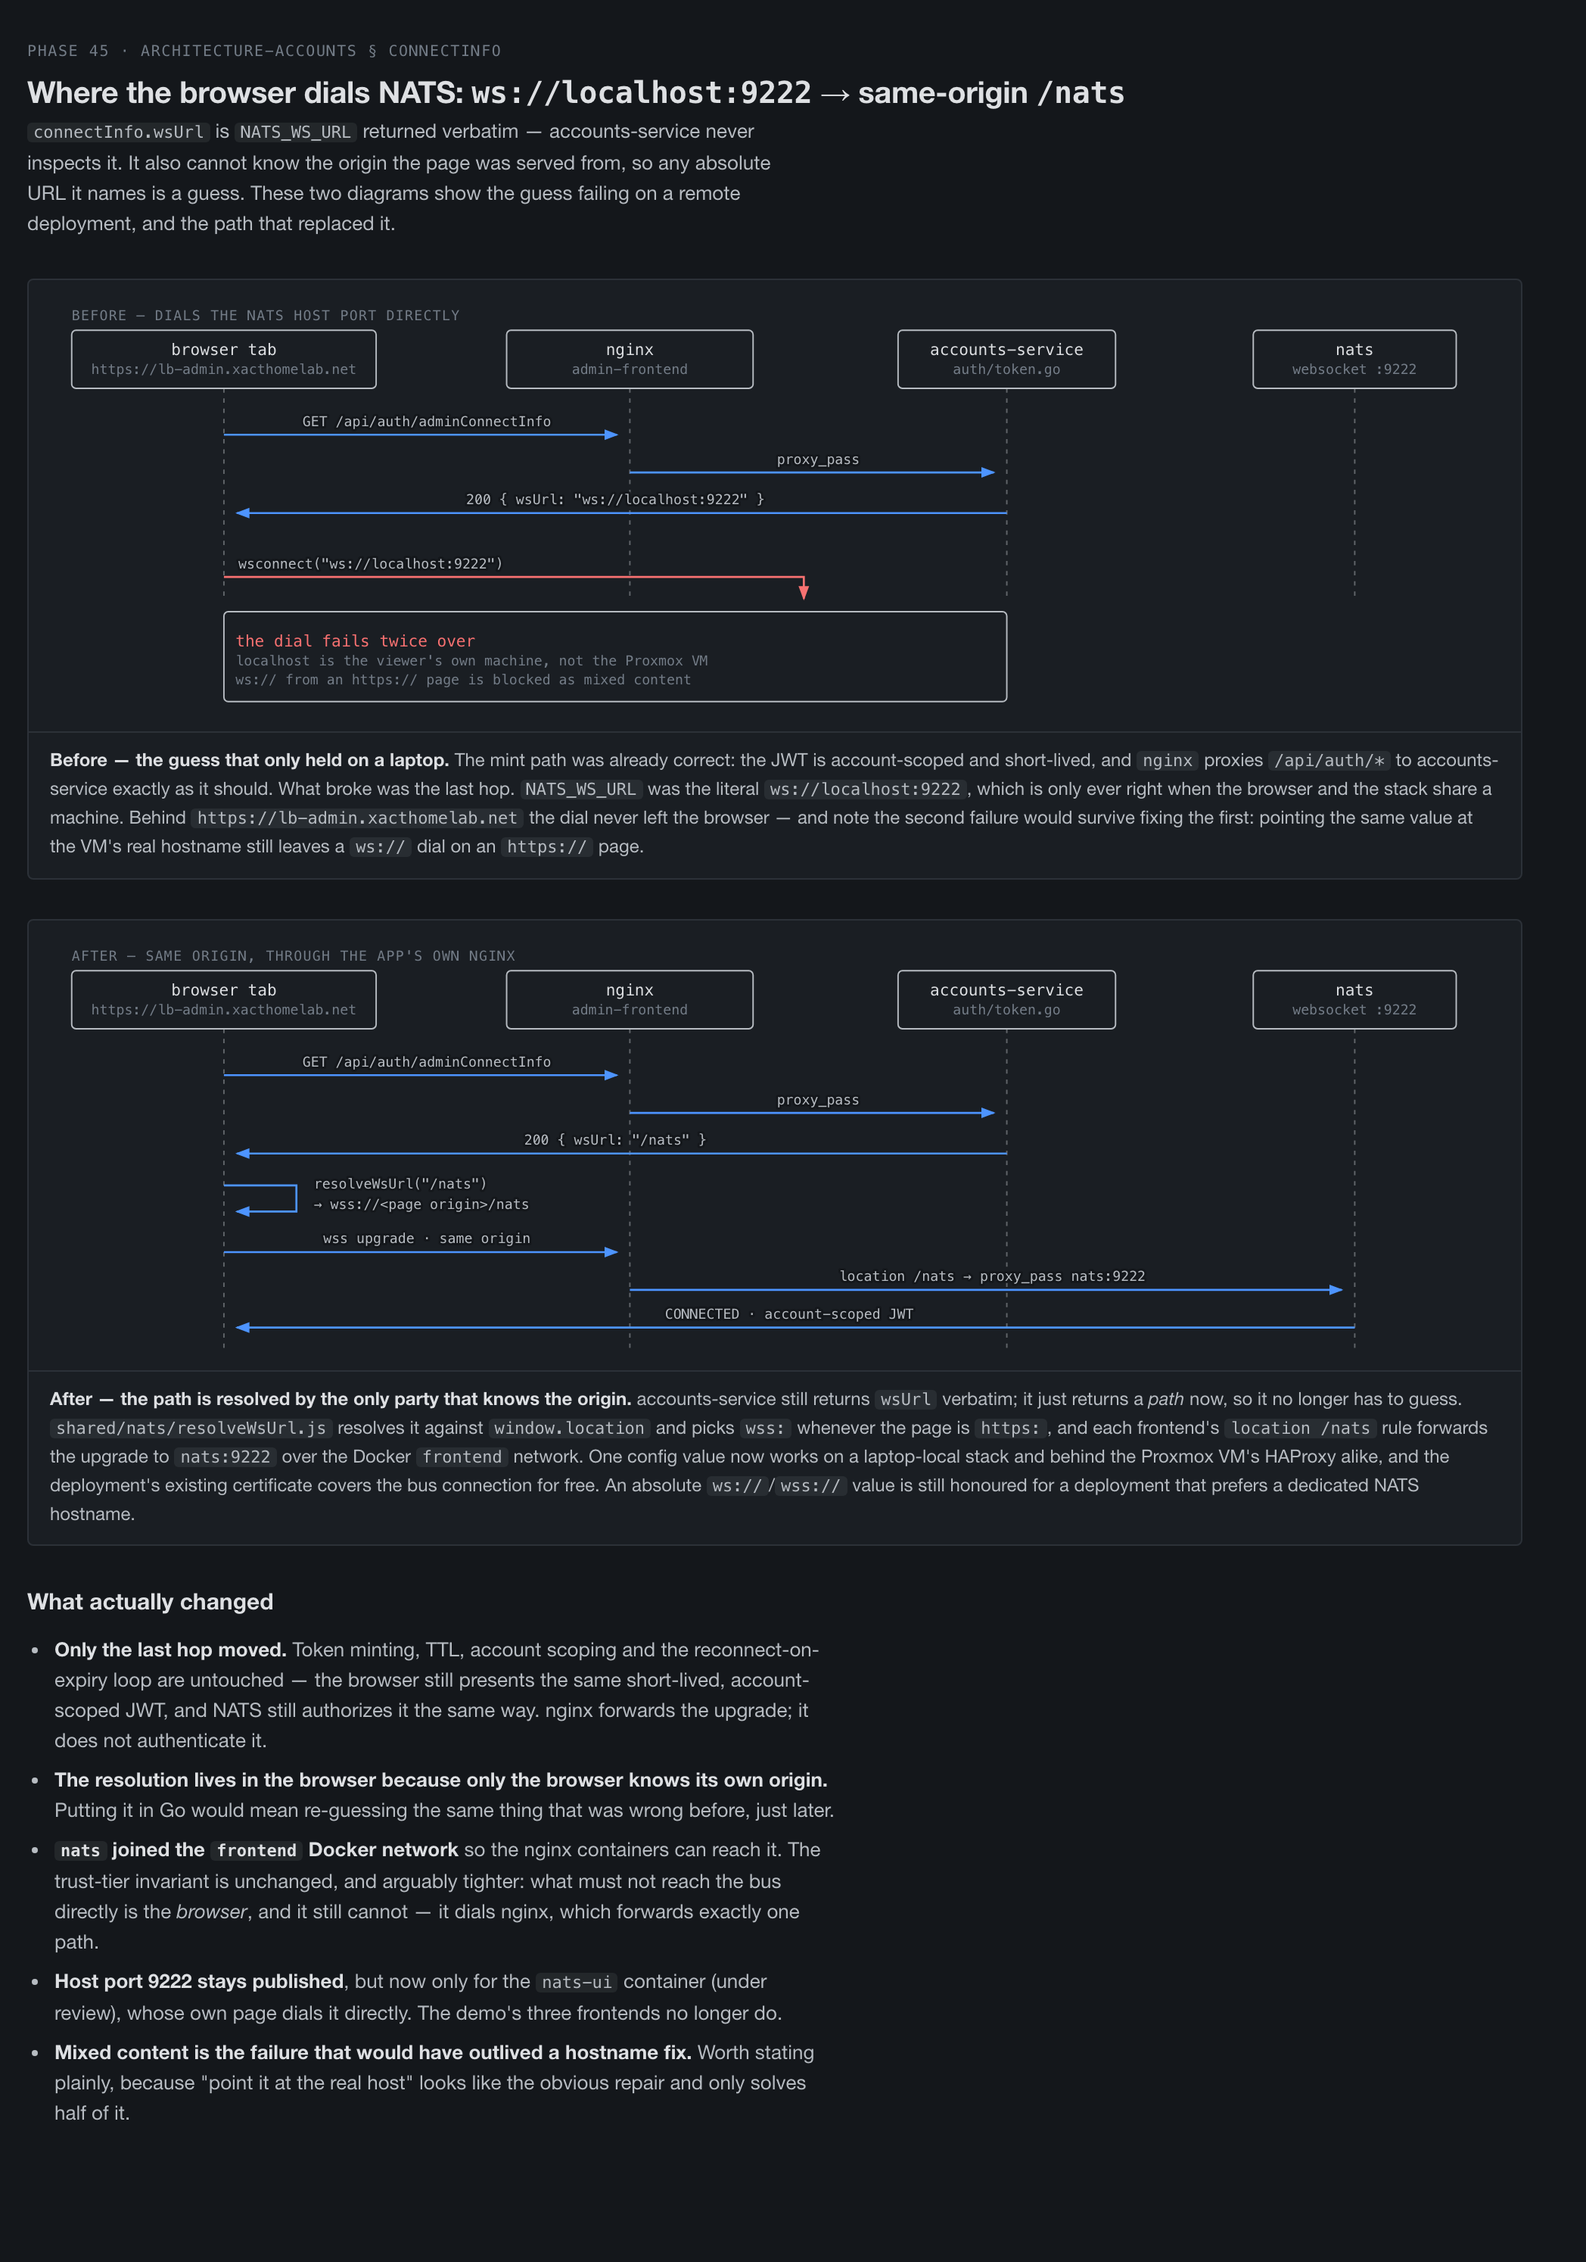
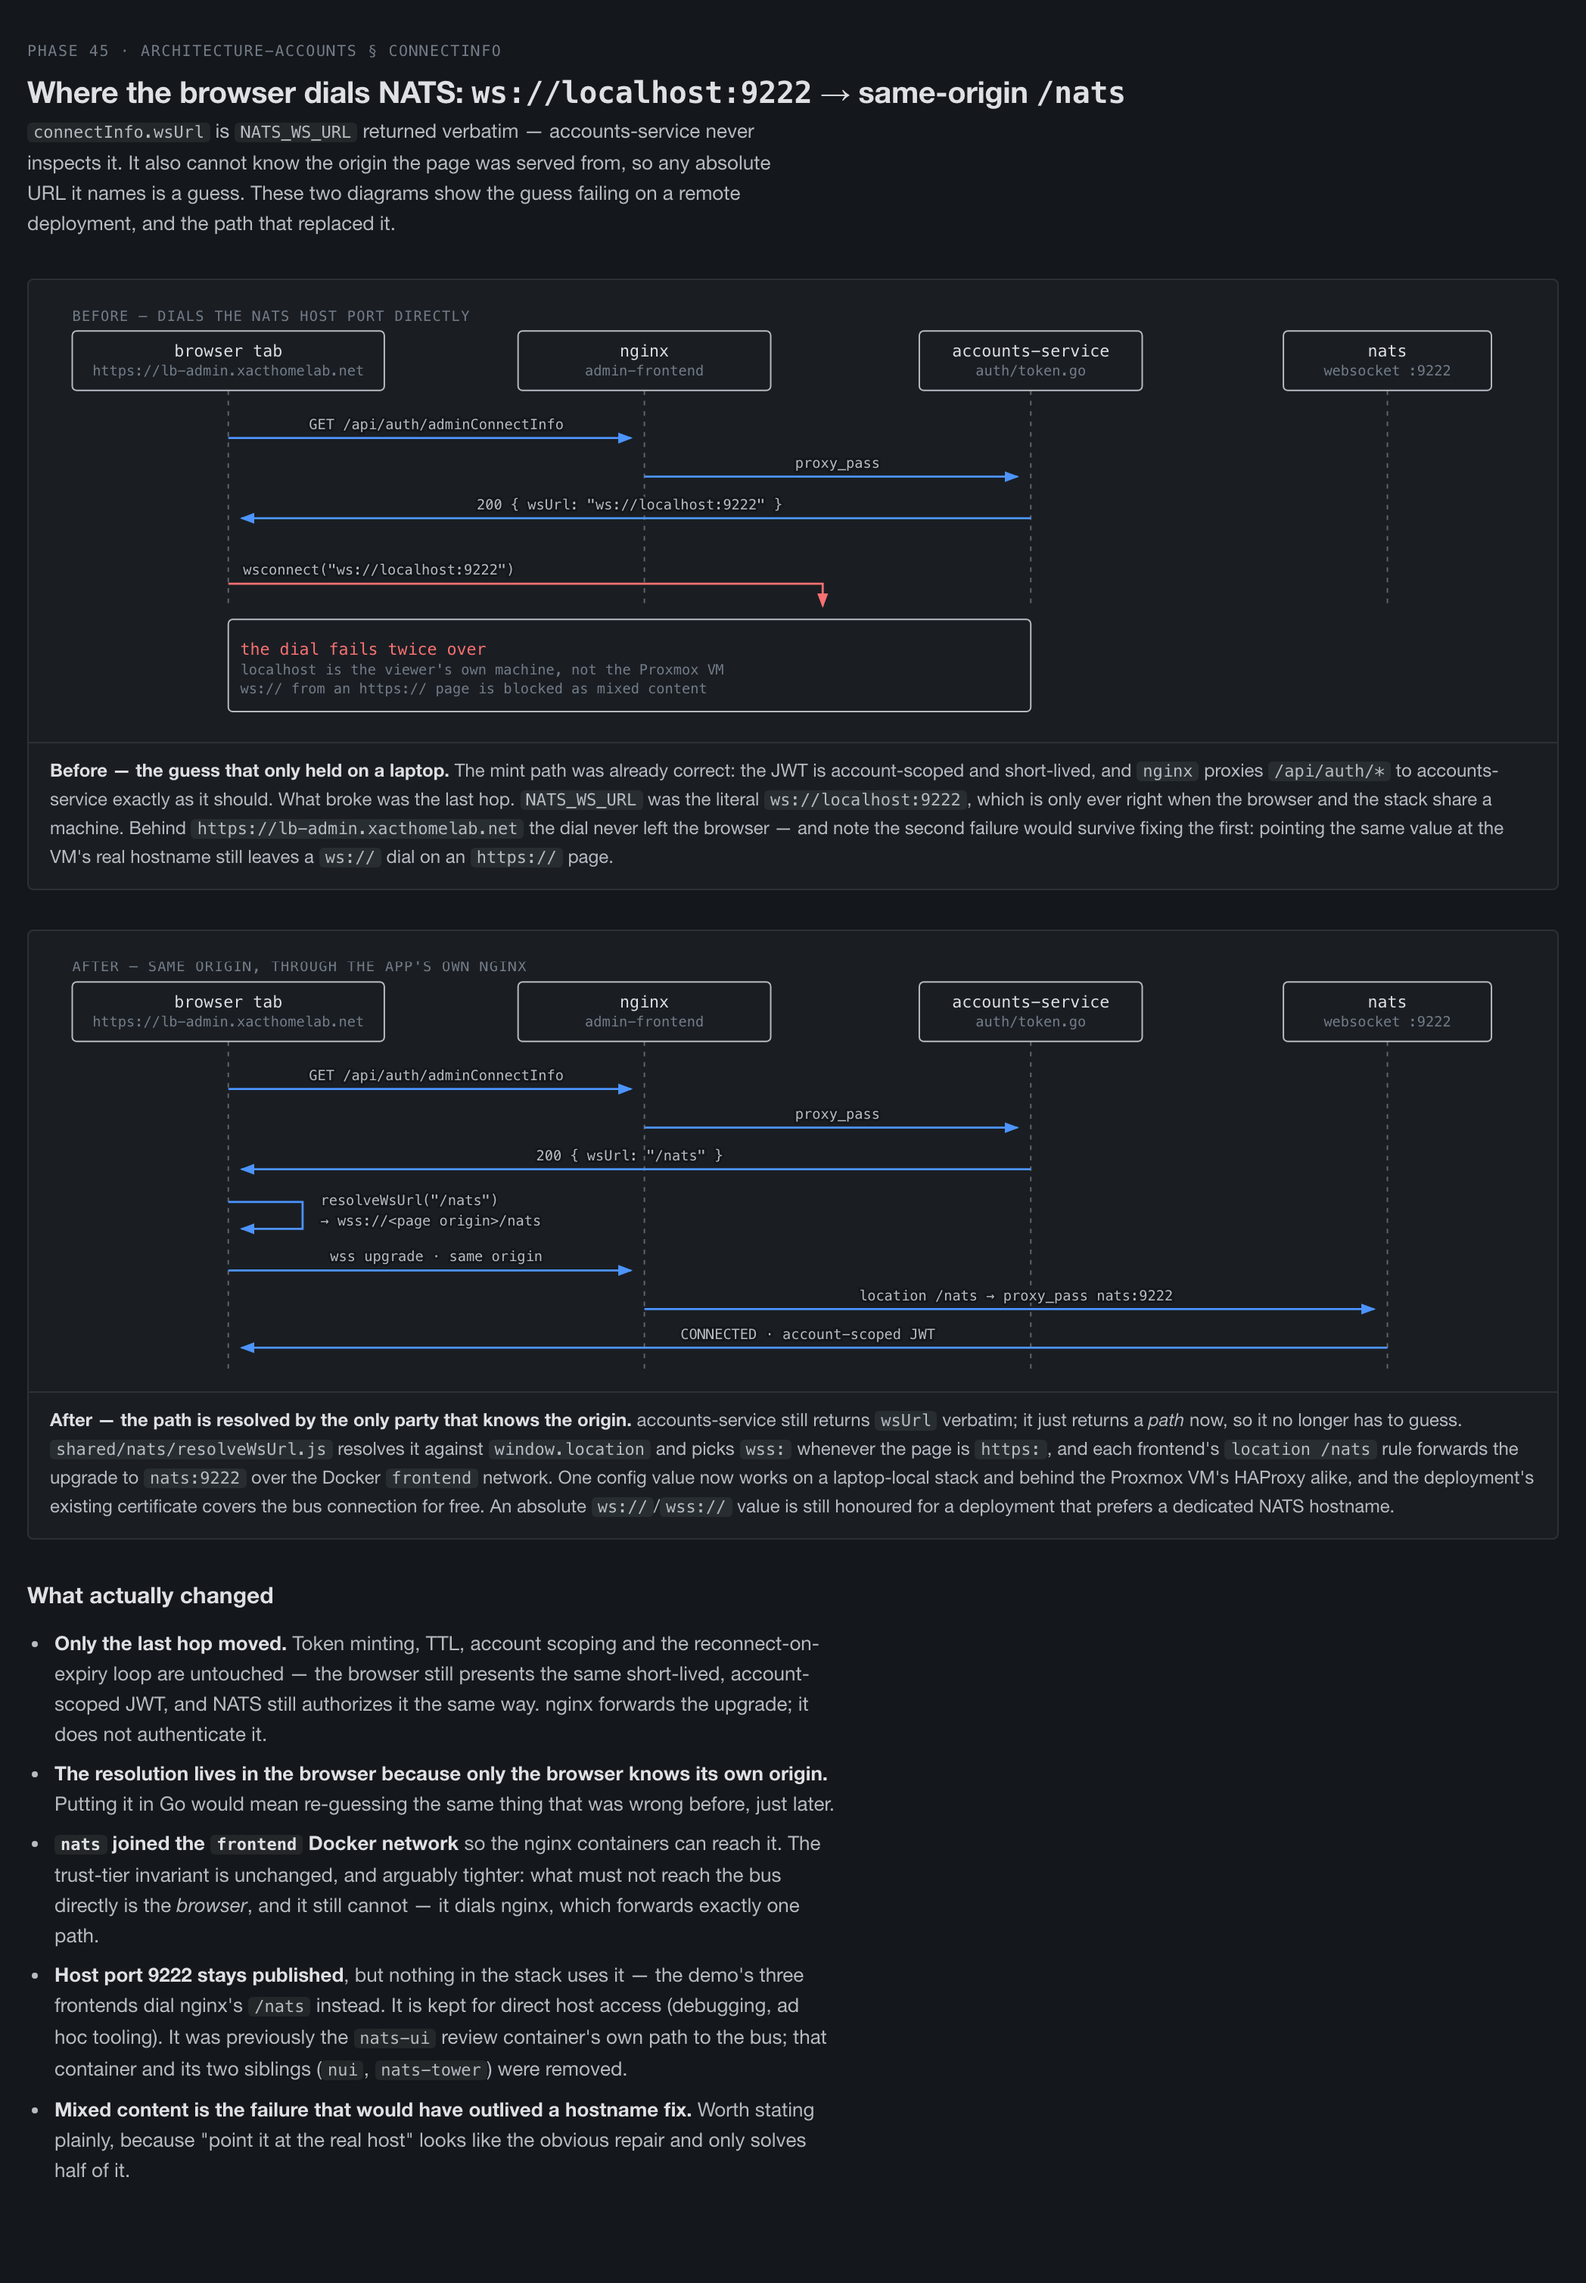
chore(infra): retire the three NATS review containers
nats-ui, nui and nats-tower were carried in docker-compose under review.
None of them earned a place: the demo's own frontends have reached the
websocket listener through their own nginx at /nats since Phase 45, so
none of the three sat on a path anything depends on. Removing them frees
host ports 7103, 7104 and 7105 back to the frontend range.

Host port 9222 stays published, but the reason changes: it is now kept
for direct host access from a browser page or CLI while debugging, not
for a container that dialled it. nats.conf's header comment said the
listener existed for nats-ui; it now says what actually uses it, and
gains an explicit server_name so `nats server list` shows a readable
name instead of the generated NKey ID.

ARCHITECTURE-ACCOUNTS.md and the browser-nats-ws-path sketch carried the
same stale claim about 9222 and are corrected in the same change.

diff --git a/demos/01-dictionary/diagrams/browser-nats-ws-path.html b/demos/01-dictionary/diagrams/browser-nats-ws-path.html
@@ -226,8 +226,10 @@ li b { color: var(--text); font-weight: 600; }
         can reach it. The trust-tier invariant is unchanged, and arguably tighter: what must not reach the
         bus directly is the <i>browser</i>, and it still cannot — it dials nginx, which forwards exactly one
         path.</li>
-      <li><b>Host port 9222 stays published</b>, but now only for the <code>nats-ui</code> container (under
-        review), whose own page dials it directly. The demo's three frontends no longer do.</li>
+      <li><b>Host port 9222 stays published</b>, but nothing in the stack uses it — the demo's three
+        frontends dial nginx's <code>/nats</code> instead. It is kept for direct host access (debugging,
+        ad hoc tooling). It was previously the <code>nats-ui</code> review container's own path to the bus;
+        that container and its two siblings (<code>nui</code>, <code>nats-tower</code>) were removed.</li>
       <li><b>Mixed content is the failure that would have outlived a hostname fix.</b> Worth stating plainly,
         because "point it at the real host" looks like the obvious repair and only solves half of it.</li>
     </ul>

diff --git a/demos/01-dictionary/README.md b/demos/01-dictionary/README.md
@@ -133,9 +133,6 @@ re-export the whole retained hour on the next start instead.
 | Admin UI              | http://localhost:7100                                        |
 | Port Management       | http://localhost:7101                                        |
 | Tech Lab Operator     | http://localhost:7102                                        |
-| NATS UI (under review)| http://localhost:7103                                        |
-| NUI (under review)    | http://localhost:7104                                        |
-| NATS Tower (under review) | http://localhost:7105                                    |
 | Docs (VitePress)      | http://localhost:7106                                        |
 | Swagger UI (backend)  | http://localhost:7200/swagger/                              |
 | Backend API           | http://localhost:7200                                       |

diff --git a/obsidian/V3-Platform/Architecture/Dictionary-POC/ARCHITECTURE-ACCOUNTS.md b/obsidian/V3-Platform/Architecture/Dictionary-POC/ARCHITECTURE-ACCOUNTS.md
@@ -490,9 +490,11 @@ Two consequences:
   must not reach the bus directly is the *browser*, and it still cannot — it
   dials nginx, which forwards exactly one path, and it still needs an
   account-scoped JWT minted here to get past the server's own authorization.
-- **The NATS host port 9222 stays published**, but only for the `nats-ui`
-  container (under review), whose own browser page dials it directly. The
-  demo's three frontends no longer do.
+- **The NATS host port 9222 stays published**, but nothing in the stack uses
+  it — the demo's three frontends dial nginx's `/nats` instead. It is kept for
+  direct host access (debugging, ad hoc tooling). It was previously the
+  `nats-ui` review container's own path to the bus; that container and its two
+  siblings (`nui`, `nats-tower`) were removed.
 
 ### NATS operator-mode trust chain
 
